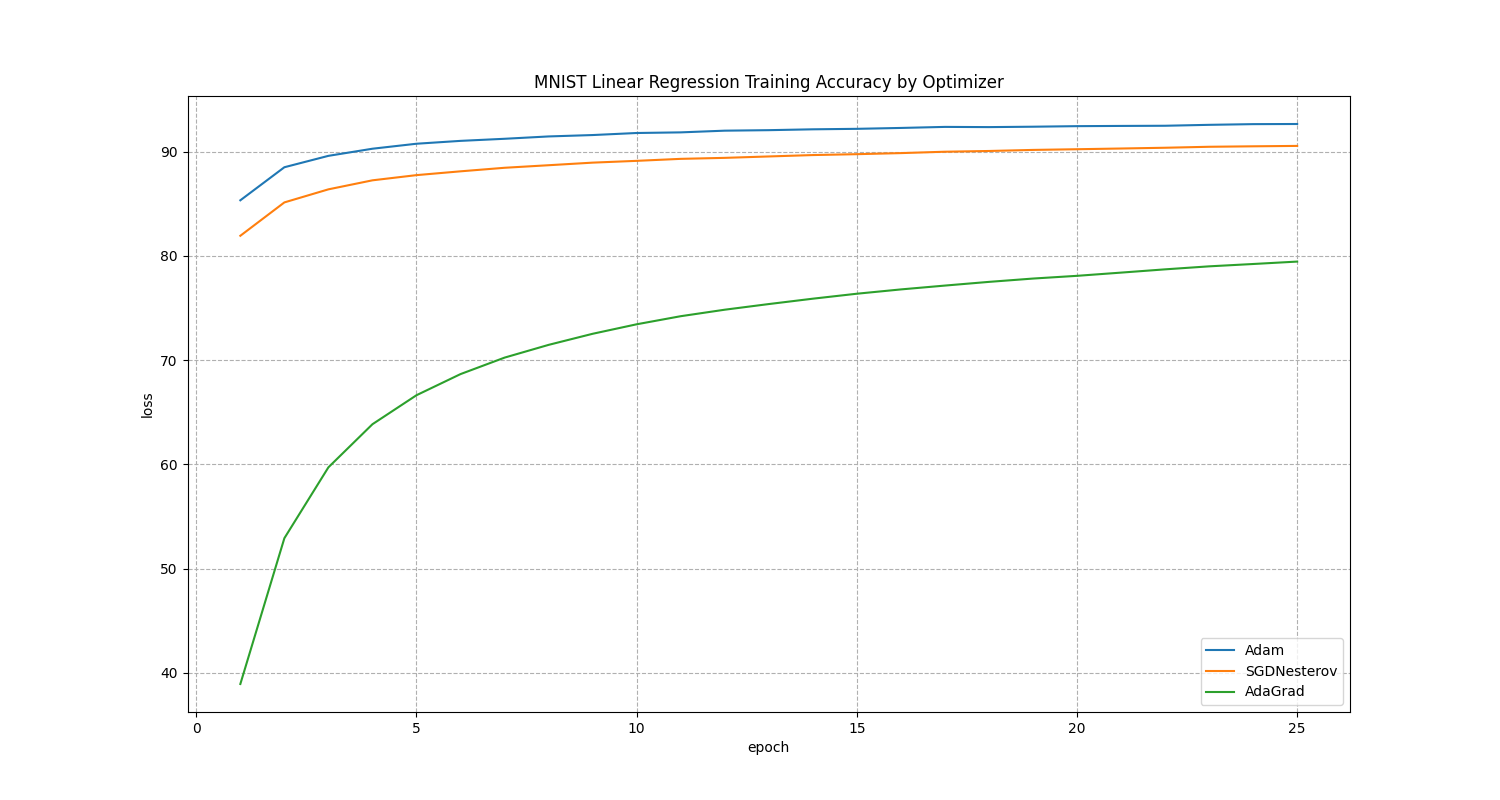
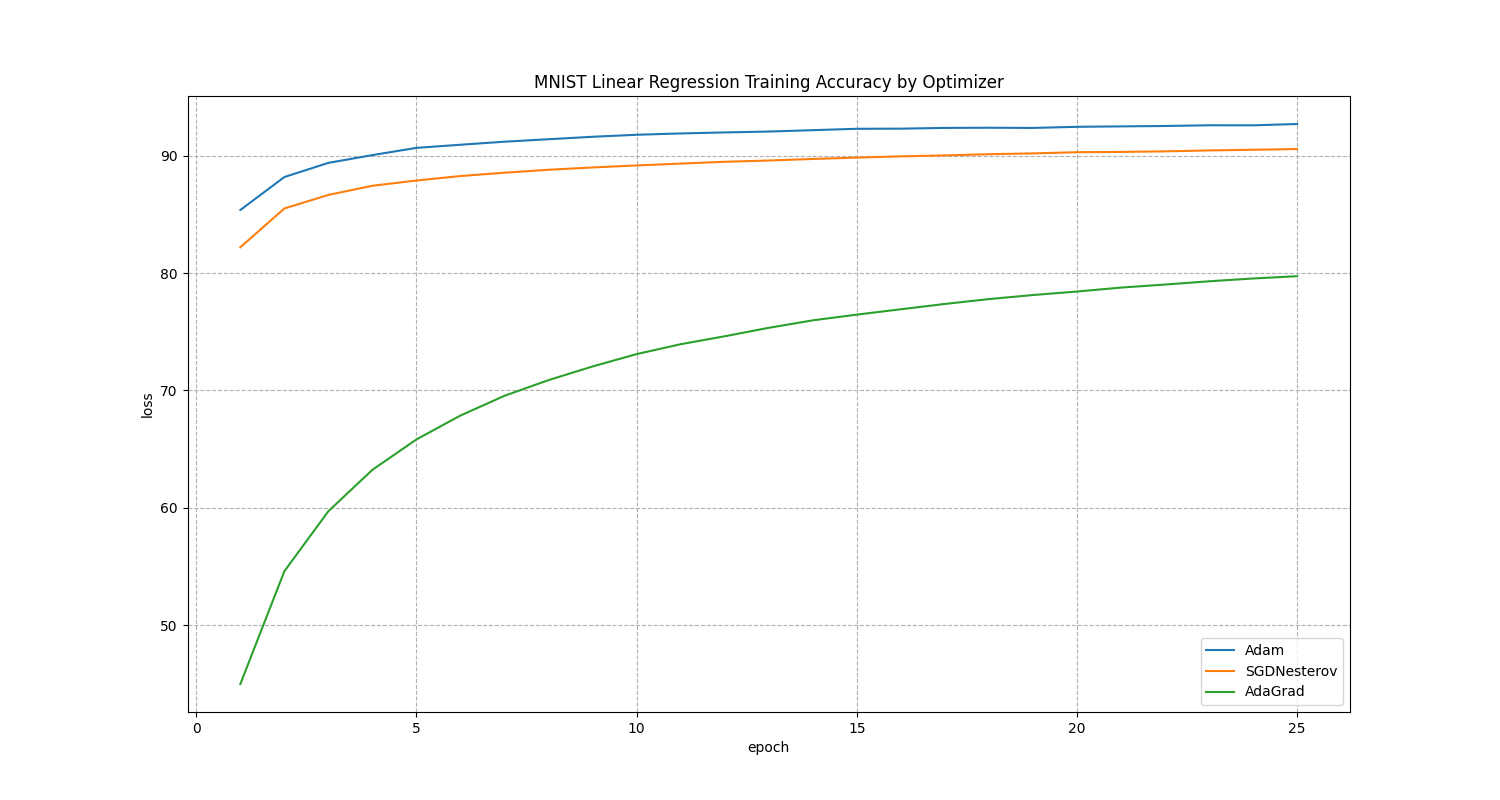
added charts & covnet w/ dropout

diff --git a/src/6.3_experiments_conv_net.py b/src/6.3_experiments_conv_net.py
@@ -5,7 +5,7 @@ from torch import nn, optim
 from torch.utils.data import DataLoader
 from torchvision import datasets, transforms
 
-from models import ConvNet
+from models import ConvNet, ConvNetDrop
 from utilities import build_graphs
 from utilities import train_model_cfar as train_model
 from utilities import test_model_cfar as test_model
@@ -26,61 +26,71 @@ def main(mini_batch_size, learning_rate, weight_decay, epochs):
     # ? training model
     optimizer_options = ["Adam", "SGDNesterov", "AdaGrad"]
     result_list = []
+    drop_list = ["drop", "no drop"]
 
-    for optimizer_name in optimizer_options:
-        print("Optimizer: ", optimizer_name)
-        model = ConvNet().to(device)
-        criterion = nn.CrossEntropyLoss()
+    for drop in drop_list:
+        print("-------------", drop)
+        for optimizer_name in optimizer_options:
+            print("Optimizer: ", optimizer_name)
 
-        if optimizer_name == "Adam":
-            optimizer = optim.Adam(
-                model.parameters(), lr=learning_rate, weight_decay=weight_decay
-            )
-        elif optimizer_name == "SGDNesterov":
-            optimizer = optim.SGD(
-                model.parameters(),
-                lr=learning_rate,
-                weight_decay=weight_decay,
-                momentum=0.9,
-                nesterov=True,
-            )
-        elif optimizer_name == "AdaGrad":
-            optimizer = optim.Adagrad(
-                model.parameters(), lr=learning_rate, weight_decay=weight_decay
-            )
-        else:
-            print(f"Warning: Optimizer {optimizer_name} not a condition. Skipping")
-            continue
+            if drop == "drop":
+                model = ConvNetDrop().to(device)
+                plot_name = optimizer_name + "+dropout"
+            else:
+                model = ConvNet().to(device)
+                plot_name = optimizer_name
 
-        train_ram_usage_list = []
-        test_loss_list = []
-        test_acc_list = []
+            criterion = nn.CrossEntropyLoss()
 
-        start_time = time.time()
-        for epoch in range(1, epochs + 1):
-            train_loss, train_acc, train_ram_usage = train_model(
-                model, train_loader, criterion, optimizer, device)
+            if optimizer_name == "Adam":
+                optimizer = optim.Adam(
+                    model.parameters(), lr=learning_rate, weight_decay=weight_decay
+                )
+            elif optimizer_name == "SGDNesterov":
+                optimizer = optim.SGD(
+                    model.parameters(),
+                    lr=learning_rate,
+                    weight_decay=weight_decay,
+                    momentum=0.9,
+                    nesterov=True,
+                )
+            elif optimizer_name == "AdaGrad":
+                optimizer = optim.Adagrad(
+                    model.parameters(), lr=learning_rate, weight_decay=weight_decay
+                )
+            else:
+                print(f"Warning: Optimizer {optimizer_name} not a condition. Skipping")
+                continue
 
-            test_loss, test_acc = test_model(model, test_loader, criterion, device)
-            test_loss_list.append(test_loss)
-            test_acc_list.append(test_acc)
-            train_ram_usage_list.extend(train_ram_usage)
+            train_ram_usage_list = []
+            test_loss_list = []
+            test_acc_list = []
 
-            print(
-                f"Epoch {epoch}/{epochs} | "
-                f"Train Loss: {train_loss:.4f} | Train Acc: {train_acc:.2f}% | "
-                f"Test Loss: {test_loss:.4f} | Test Acc: {test_acc:.2f}%"
-            )
-        end_time = time.time()
+            start_time = time.time()
+            for epoch in range(1, epochs + 1):
+                train_loss, train_acc, train_ram_usage = train_model(
+                    model, train_loader, criterion, optimizer, device)
 
-        result_dic = {
-            "name": optimizer_name,
-            "test_loss": test_loss_list,
-            "test_acc": test_acc_list,
-            "train_vram_usage": train_ram_usage_list,
-            "runtime": end_time - start_time
-        }
-        result_list.append(result_dic)
+                test_loss, test_acc = test_model(model, test_loader, criterion, device)
+                test_loss_list.append(test_loss)
+                test_acc_list.append(test_acc)
+                train_ram_usage_list.extend(train_ram_usage)
+
+                print(
+                    f"Epoch {epoch}/{epochs} | "
+                    f"Train Loss: {train_loss:.4f} | Train Acc: {train_acc:.2f}% | "
+                    f"Test Loss: {test_loss:.4f} | Test Acc: {test_acc:.2f}%"
+                )
+            end_time = time.time()
+
+            result_dic = {
+                "name": plot_name,
+                "test_loss": test_loss_list,
+                "test_acc": test_acc_list,
+                "train_vram_usage": train_ram_usage_list,
+                "runtime": end_time - start_time
+            }
+            result_list.append(result_dic)
 
     print("training complete")
     build_graphs(result_list, epochs, name="CIFAR10 Conv Net")

diff --git a/src/6.1_experiments_logistic_regression.py b/src/6.1_experiments_logistic_regression.py
@@ -100,5 +100,5 @@ if __name__ == "__main__":
     mini_batch_size = 128
     learning_rate = 1e-4
     weight_decay = 1e-4
-    epochs = 2
+    epochs = 25
     main(mini_batch_size, learning_rate, weight_decay, epochs)
